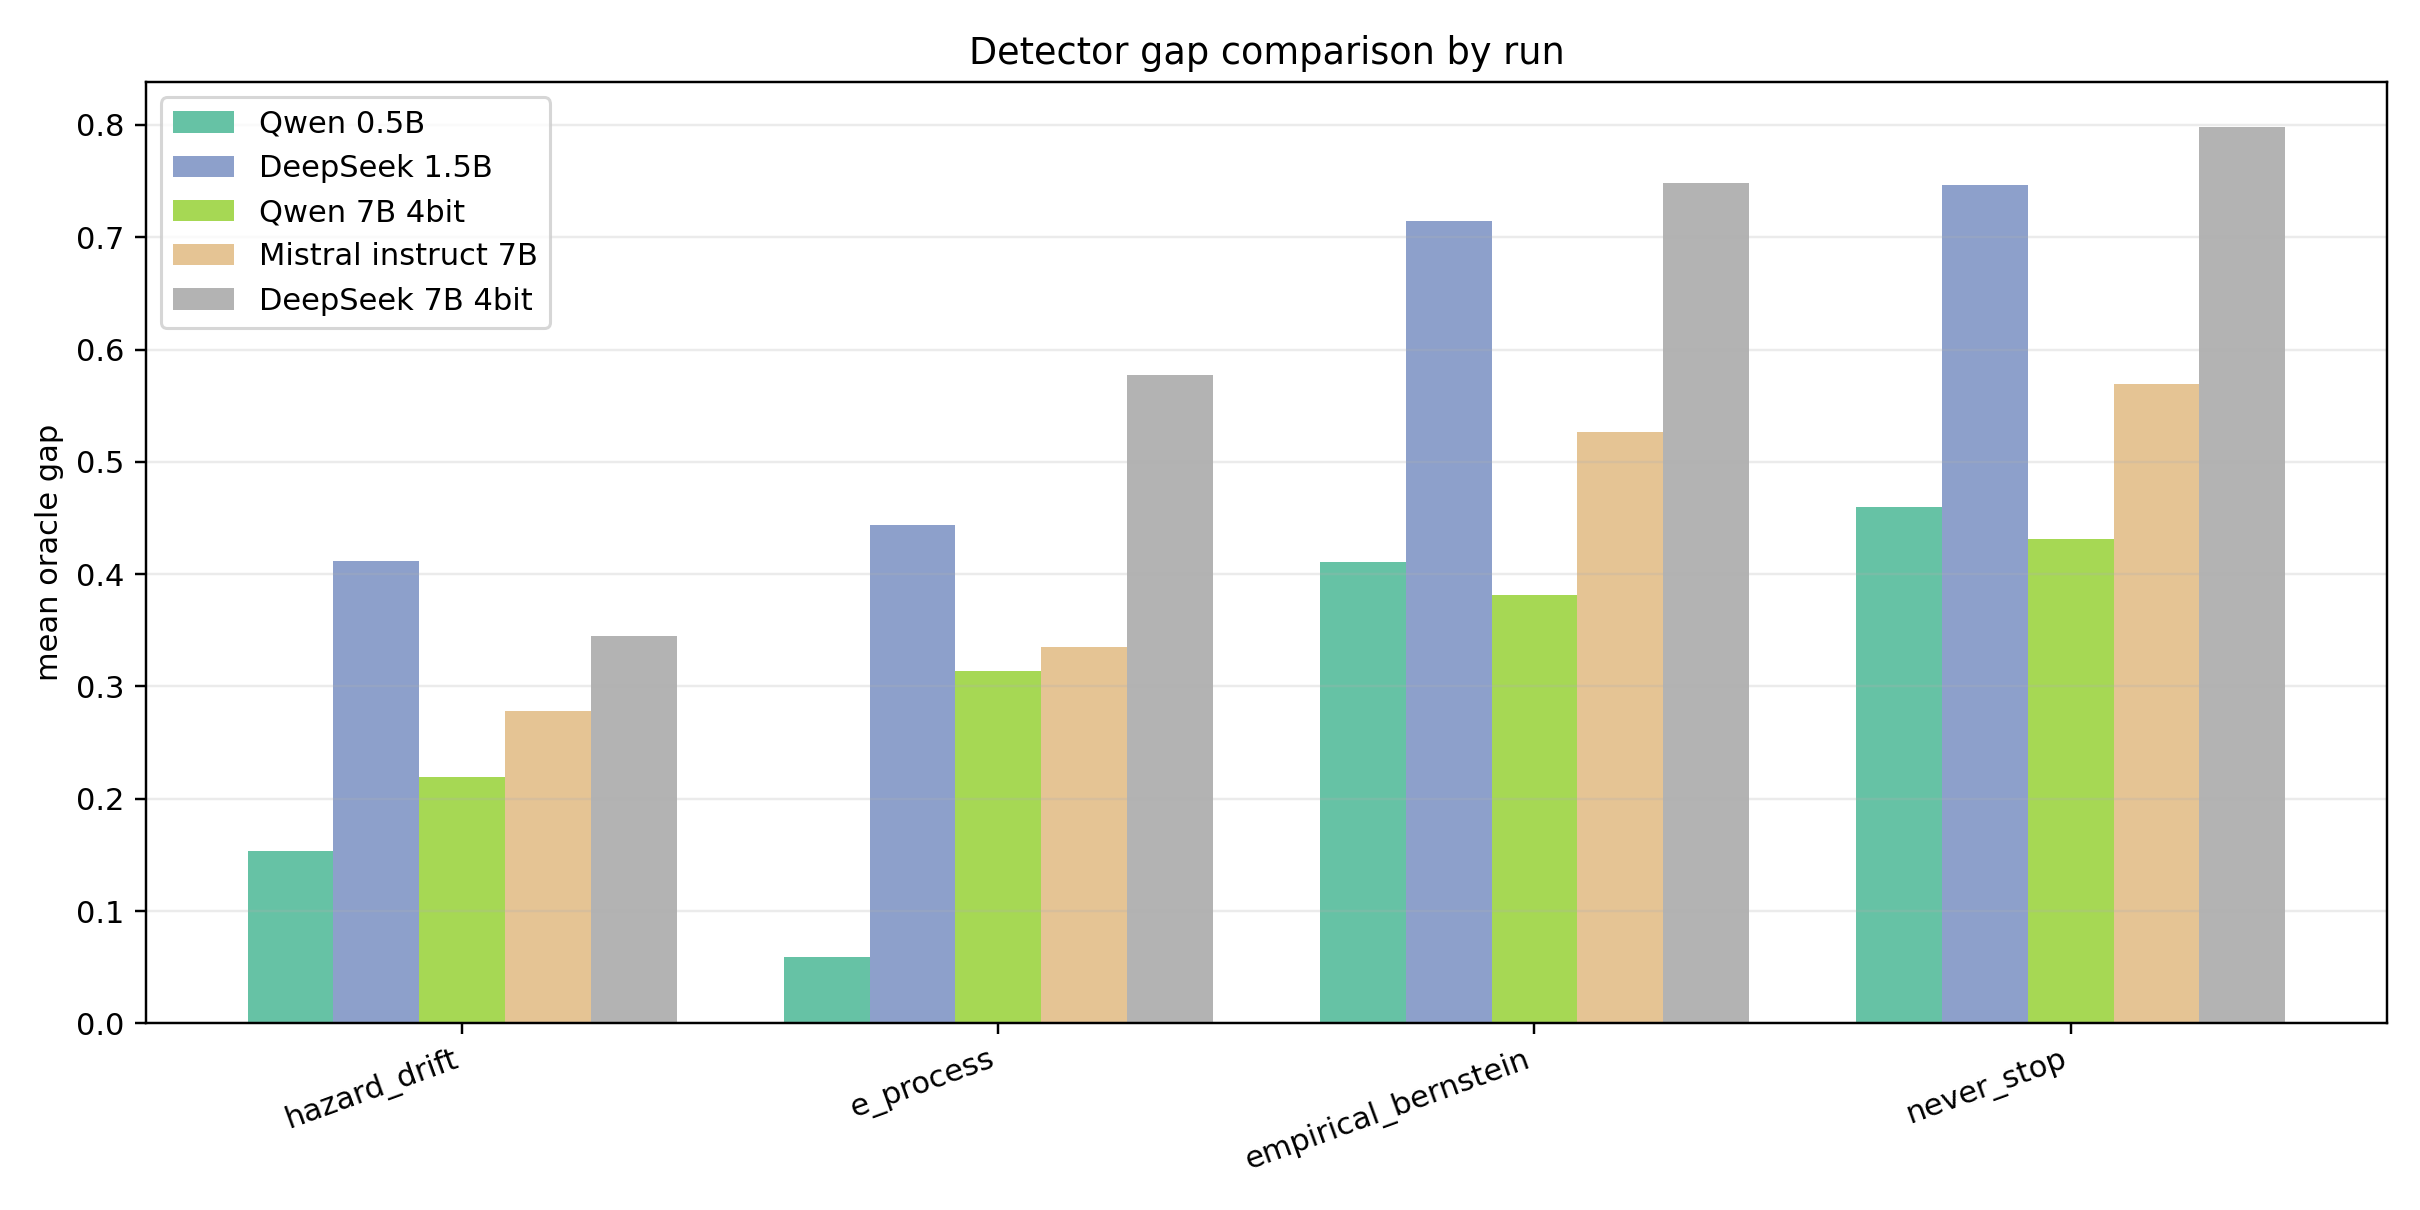
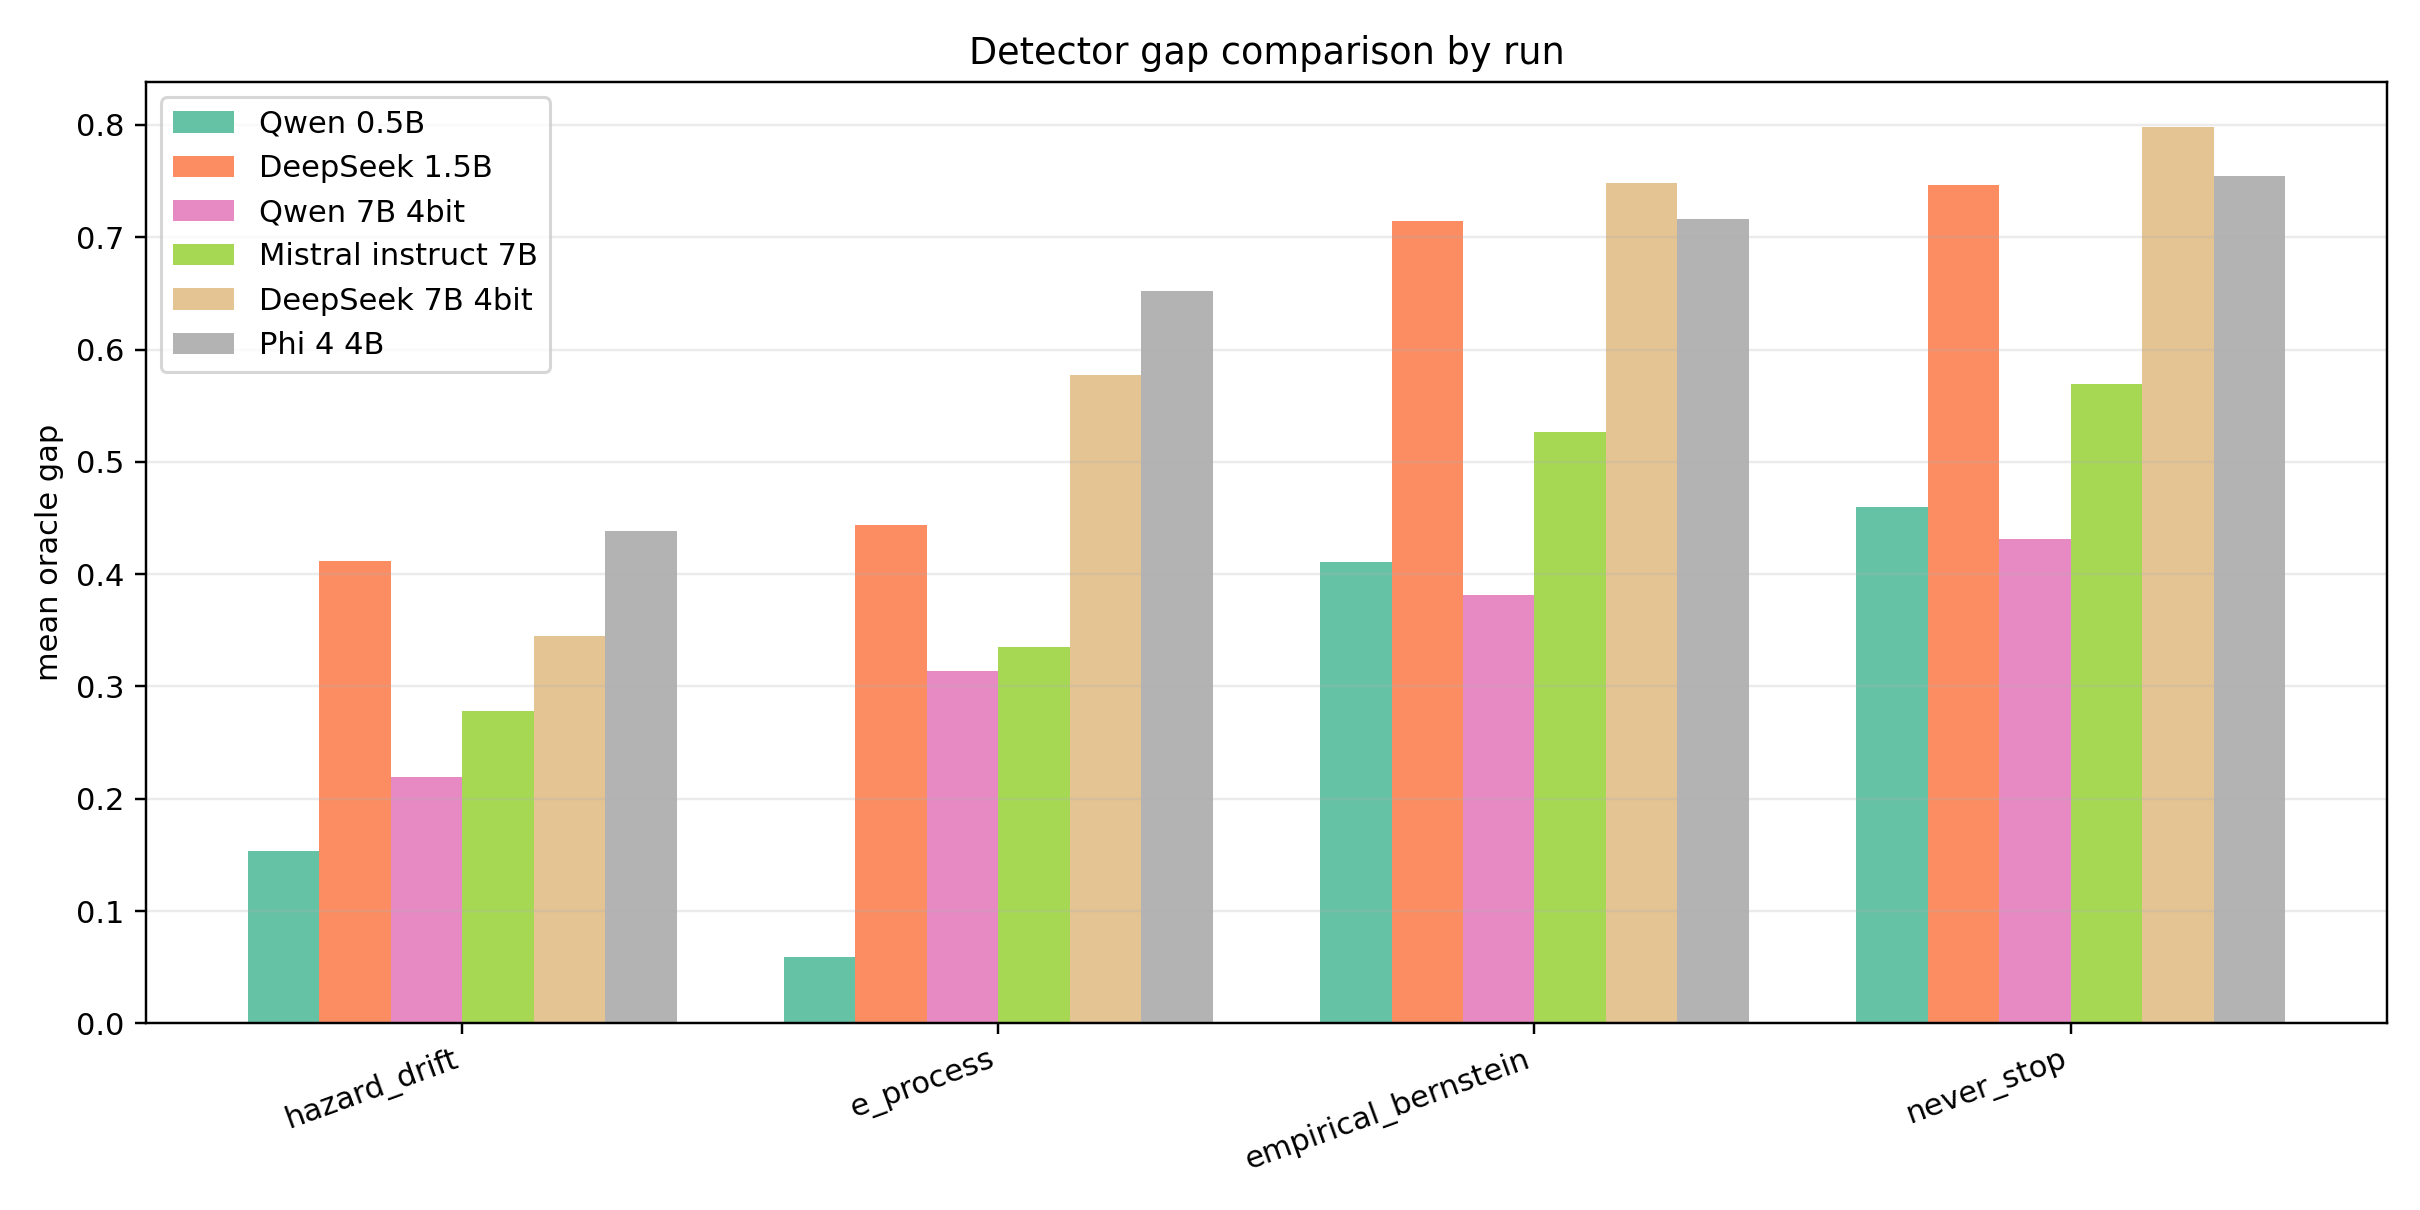
feat: update cross-family report and figures with phi-4-mini-instruct data

diff --git a/research/CROSS_FAMILY_REPORT.md b/research/CROSS_FAMILY_REPORT.md
@@ -3,7 +3,7 @@
 ## Executive Summary
 Qwen 7B remains the only clearly late corrected-boundary witness, but Mistral 7B now adds a weaker non-Qwen step-3 boundary with a large never-stop penalty. Cross-family evidence is therefore stronger than a single-family story, but full late-boundary robustness is still unproven.
 
-Task IDs align across all 5 runs under the shared GSM8K train split and shuffle seed 17 protocol.
+Task IDs align across all 6 runs under the shared GSM8K train split and shuffle seed 17 protocol.
 
 ## Run Summary
 | Run | Family | Params | Backend | Quant | Step-1 acc | Peak acc | Peak step | Corrected boundary | Repair | Corruption | Hazard gap | E-process gap | Never-stop gap | Probe Brier | Probe AUC | Assessment |
@@ -13,6 +13,7 @@ Task IDs align across all 5 runs under the shared GSM8K train split and shuffle 
 | Qwen 7B 4bit | Qwen2.5 instruct | 7B | transformers+torch(cuda-4bit) | 4bit | 0.3644 | 0.7789 | 9 | 6 | 0.1794 | 0.1678 | 0.2193 | 0.3139 | 0.4317 | 0.1625 | 0.9063 | Late-boundary replication |
 | Mistral instruct 7B | Mistral instruct | 7B | transformers+torch(cuda) | none | 0.3022 | 0.3189 | 10 | 3 | 0.0545 | 0.1381 | 0.2781 | 0.3351 | 0.5696 | 0.2285 | 0.7184 | Weakened late-boundary support |
 | DeepSeek 7B 4bit | DeepSeek-R1 distill | 7B | transformers+torch(cuda-4bit) | 4bit | 0.4556 | 0.5822 | 7 | 1 | 0.3776 | 0.3370 | 0.3447 | 0.5771 | 0.7982 | 0.2009 | 0.7191 | No late-boundary replication |
+| Phi 4 4B | Phi 4 | 4B | transformers+torch(cuda) | none | 0.3056 | 0.3344 | 8 | 1 | 0.1534 | 0.3553 | 0.4385 | 0.6522 | 0.7544 | 0.2330 | 0.6208 | No late-boundary replication |
 
 ## Drift Audit
 | Run | Empirical boundary | Corrected boundary | Fitted boundary | Legacy pooled proxy | Mismatch |
@@ -22,6 +23,7 @@ Task IDs align across all 5 runs under the shared GSM8K train split and shuffle 
 | Qwen 7B 4bit | 6 | 6 | 7 | 5 | yes |
 | Mistral instruct 7B | 3 | 3 | 5 | 3 | no |
 | DeepSeek 7B 4bit | 1 | 1 | 1 | 1 | no |
+| Phi 4 4B | 1 | 1 | 4 | 4 | yes |
 
 ## Detector Rankings
 | Run | Detector | Rank | Mean oracle gap | False-late rate |
@@ -41,6 +43,9 @@ Task IDs align across all 5 runs under the shared GSM8K train split and shuffle 
 | DeepSeek 7B 4bit | oracle | 1 | 0.0000 | 0.000 |
 | DeepSeek 7B 4bit | verifier_first_correct | 2 | 0.0390 | 0.087 |
 | DeepSeek 7B 4bit | hazard_drift | 3 | 0.3447 | 0.848 |
+| Phi 4 4B | oracle | 1 | 0.0000 | 0.000 |
+| Phi 4 4B | verifier_first_correct | 2 | 0.1415 | 0.314 |
+| Phi 4 4B | first_answer | 3 | 0.3311 | 0.000 |
 
 ## Signal Comparison
 | Run | Strongest correctness signal | Strongest corruption signal |
@@ -50,6 +55,7 @@ Task IDs align across all 5 runs under the shared GSM8K train split and shuffle 
 | Qwen 7B 4bit | self-reported confidence (confidence, coeff=0.714) | verbosity-confidence proxy (verbose_confidence_proxy, coeff=0.622) |
 | Mistral instruct 7B | answer revision flag (answer_changed, coeff=-0.528) | token entropy (entropy_mean, coeff=0.563) |
 | DeepSeek 7B 4bit | answer revision flag (answer_changed, coeff=-0.888) | answer revision flag (answer_changed, coeff=0.244) |
+| Phi 4 4B | answer revision flag (answer_changed, coeff=-0.513) | answer revision flag (answer_changed, coeff=0.413) |
 
 ## Figures
 ![Cross-family boundary comparison](outputs/cross_family/cross_family_boundary_comparison.png)
